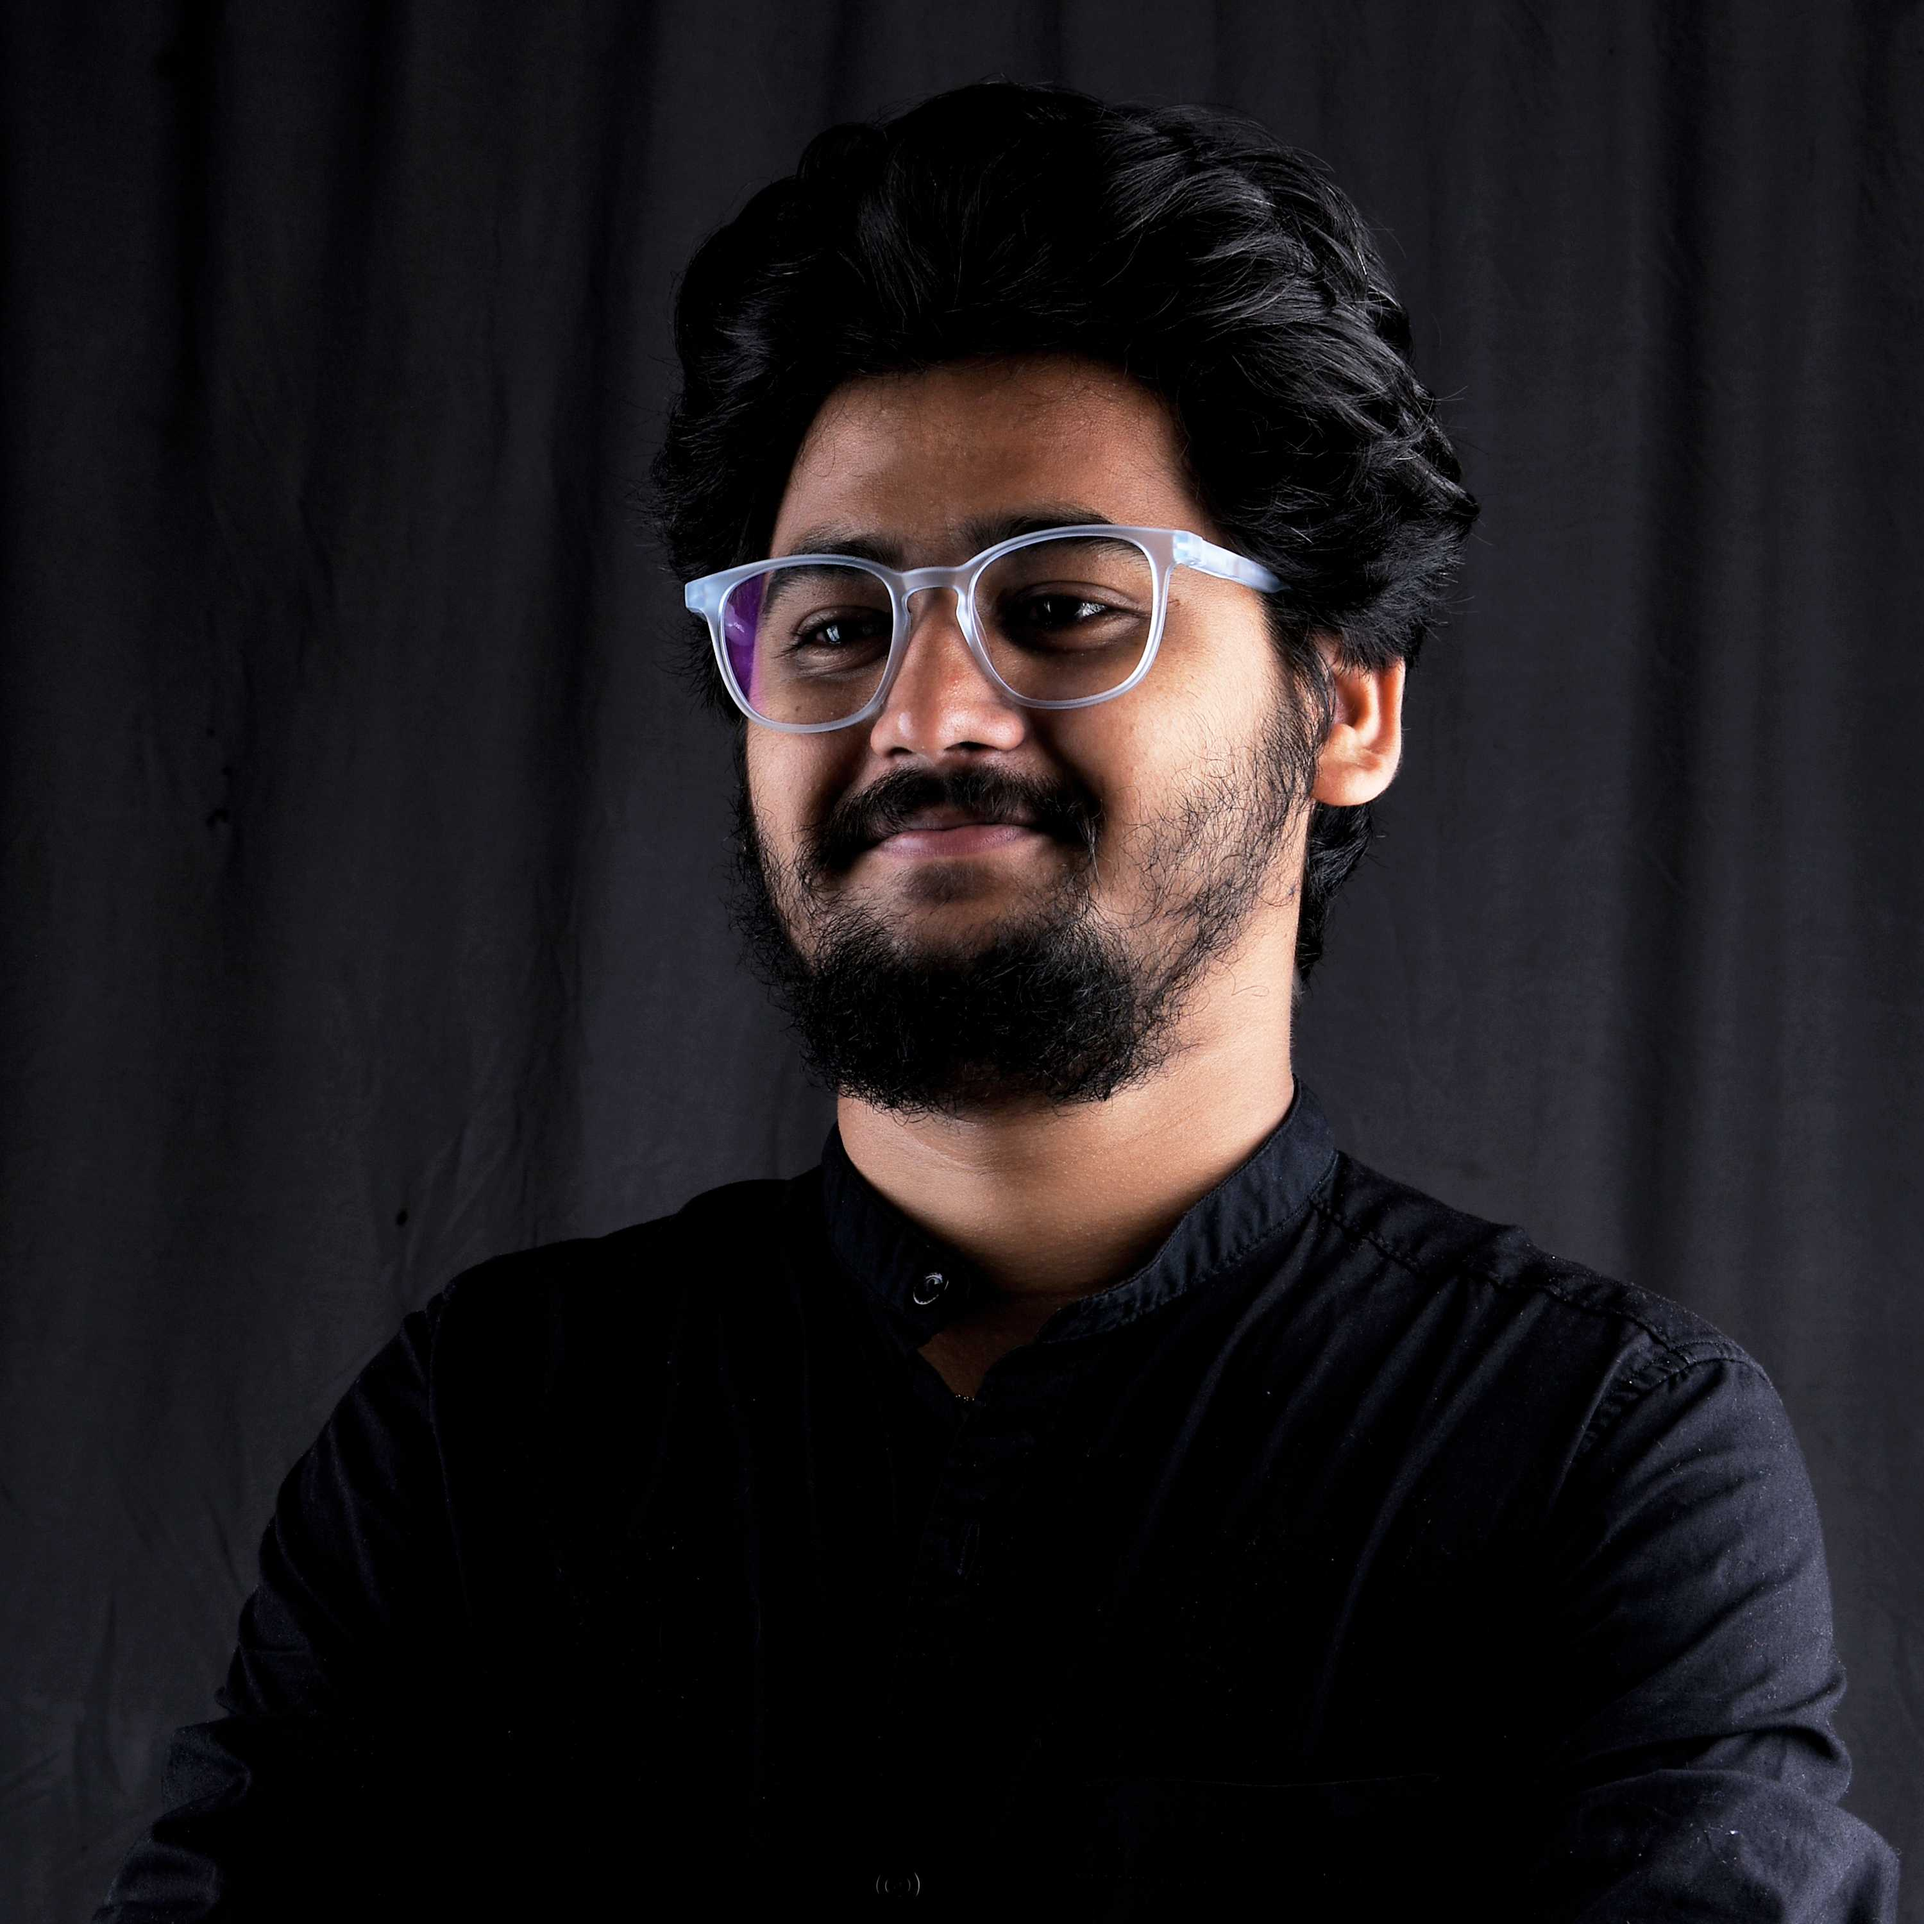
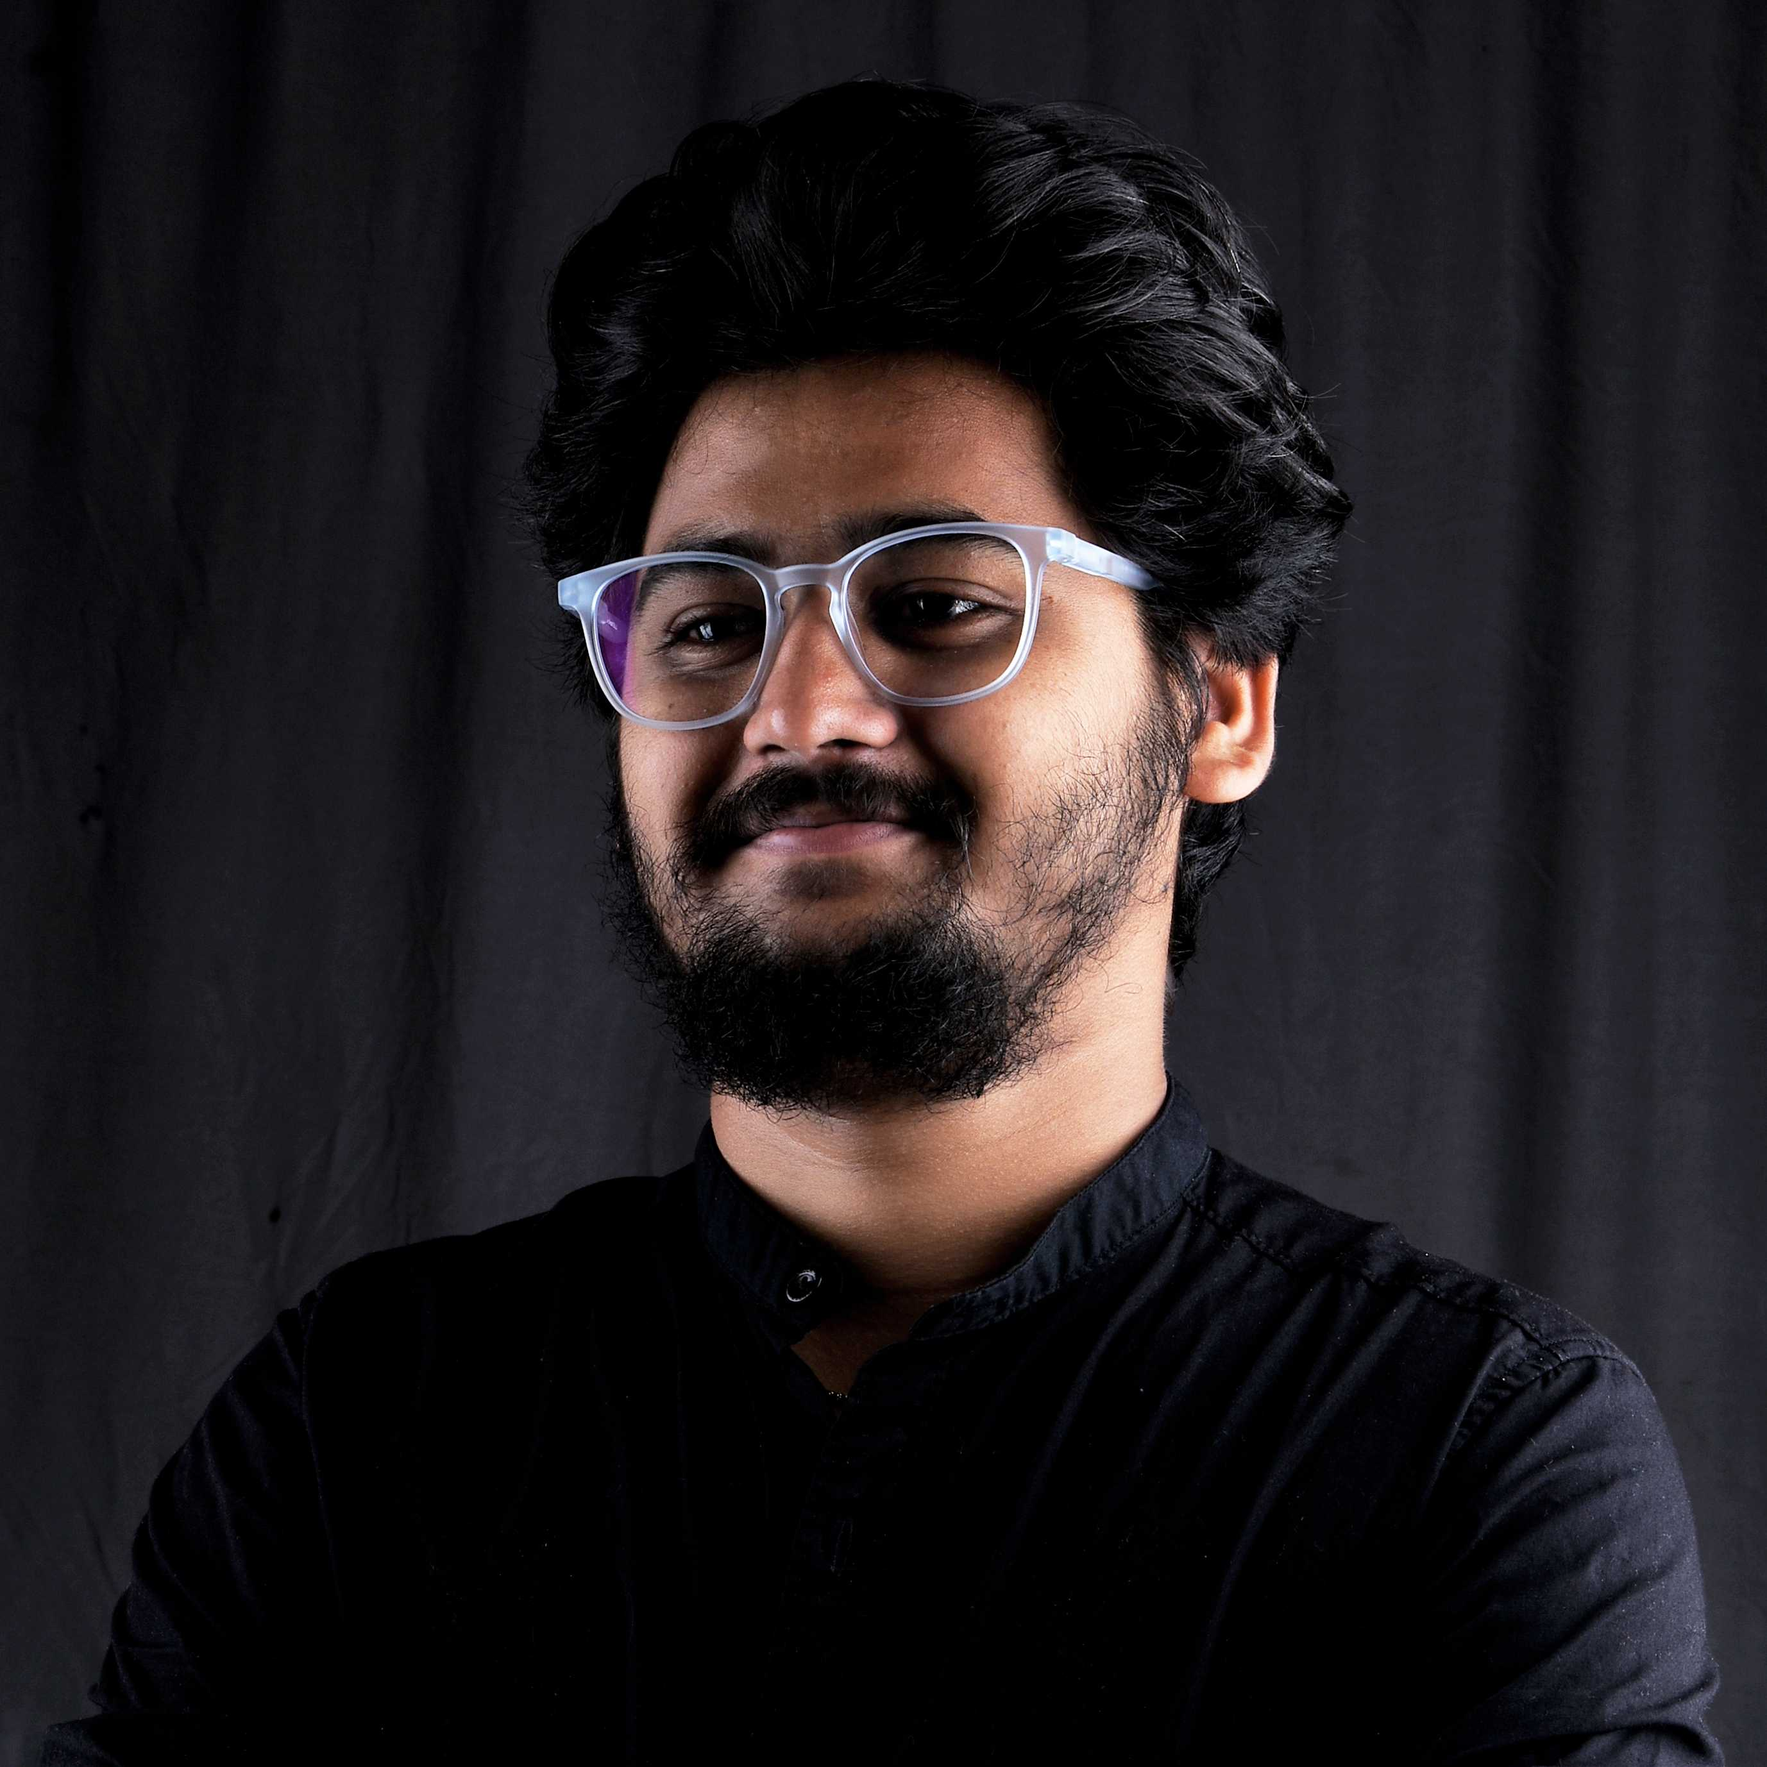
Added 404 page

diff --git a/src/Pages/Home/index.tsx b/src/Pages/Home/index.tsx
@@ -44,7 +44,7 @@ const Hero = () => {
   return (
     <>
       <section className="relative flex flex-col md:flex-row justify-center items-center wrapper pt-6 pb-10">
-        <div className="max-w-[365px] w-full h-[365px] border-[18px] bg-grey-500 box-shadow border-solid border-border rounded-full overflow-hidden">
+        <div className="max-w-[365px] w-full max-h-[365px] border-[18px] bg-grey-500 box-shadow border-solid border-border rounded-full overflow-hidden">
           <img
             src={imgUrl}
             alt="My Posing as Professional xP"
@@ -52,12 +52,12 @@ const Hero = () => {
             loading="lazy"
           />
         </div>
-        <section className="flex flex-col justify-stretch grow-0 shrink-1 basis-1/2 mt-10 md:mt-0 md:pl-12">
+        <section className="flex flex-col items-center md:items-start grow-0 shrink-1 basis-1/2 mt-10 md:mt-0 md:pl-12">
           <p className="text-xl text-white-400">UI Developer</p>
           <h2 className="mt-2 text-5xl text-white-100 font-sm">
             Sai Kumar Kola
           </h2>
-          <div className="mt-3 flex justify-start items-center gap-4">
+          <div className="mt-3 flex justify-center sm:justify-start items-center gap-4">
             {iconsArray.map(icon => (
               <Link to={icon.url} target="_blank">
                 <span
@@ -75,10 +75,10 @@ const Hero = () => {
             engaging, effective, and unique website with minimal and
             user-friendly UI. <br />
           </p>
-          <div className="mt-8">
+          <div className="mt-8 text-center sm:text-left">
             <Link
               to={require("../../assets/Resume-SaiKumarKola.pdf")}
-              className="btn border-accent hover:bg-accent hover:text-grey-400 transition-colors"
+              className="btn border-accent hover:bg-accent hover:text-grey-400 transition-colors mb-3 sm:mb-0"
               download="Resume - Sai Kumar Kola"
               target="_blank"
             >
@@ -86,7 +86,7 @@ const Hero = () => {
             </Link>
             <Link
               to="/contact"
-              className="btn ml-4 border-white-300  hover:bg-white-300 hover:text-grey-400 transition-colors"
+              className="btn ml-2 sm:ml-4 border-white-300  hover:bg-white-300 hover:text-grey-400 transition-colors"
             >
               Contact
             </Link>

diff --git a/src/Pages/404/index.tsx b/src/Pages/404/index.tsx
@@ -1,0 +1,30 @@
+import { useEffect } from "react";
+import { Link } from "react-router-dom";
+import { FaHome } from "react-icons/fa";
+import img from "../../assets/404.png";
+
+const NotFound = () => {
+  useEffect(() => {
+    document.title = "404 | Page Not Found";
+  }, []);
+  return (
+    <section className="wrapper flex my-10 flex-col gap-5 items-center justify-center">
+      <h3 className="text-3xl font-sm text-white-400 max-w-[300px]">
+        <span className="text-white-100"> Oops!</span> looks like you're lost in
+        Space
+      </h3>
+      <img
+        src={img}
+        className="max-w-[200px] w-full mx-auto"
+        alt="Astronaut Lost in Space"
+      />
+      <Link
+        to="/"
+        className="btn flex max-w-[250px] mx-auto justify-between items-center"
+      >
+        Go Home <FaHome className="ml-3" />
+      </Link>
+    </section>
+  );
+};
+export default NotFound;

diff --git a/src/App.tsx b/src/App.tsx
@@ -1,10 +1,11 @@
+import { Routes, Route } from "react-router-dom";
 import Header from "./components/Header";
 import Footer from "./components/Footer";
 import FooterNav from "./components/FooterNav";
 import Hero from "./Pages/Home";
-import { Routes, Route } from "react-router-dom";
-import Portfolio from "./Pages/Portfolio";
 import Resume from "./Pages/Resume";
+import Portfolio from "./Pages/Portfolio";
+import NotFound from "./Pages/404";
 import Contact from "./Pages/Contact";
 import { useEffect, useState } from "react";
 function App() {
@@ -28,6 +29,7 @@ function App() {
           <Route path="/resume" element={<Resume />} />
           <Route path="/portfolio" element={<Portfolio />} />
           <Route path="/contact" element={<Contact />} />
+          <Route path="*" element={<NotFound />} />
         </Routes>
         {Width < 799 ? <FooterNav /> : ""}
       </main>
